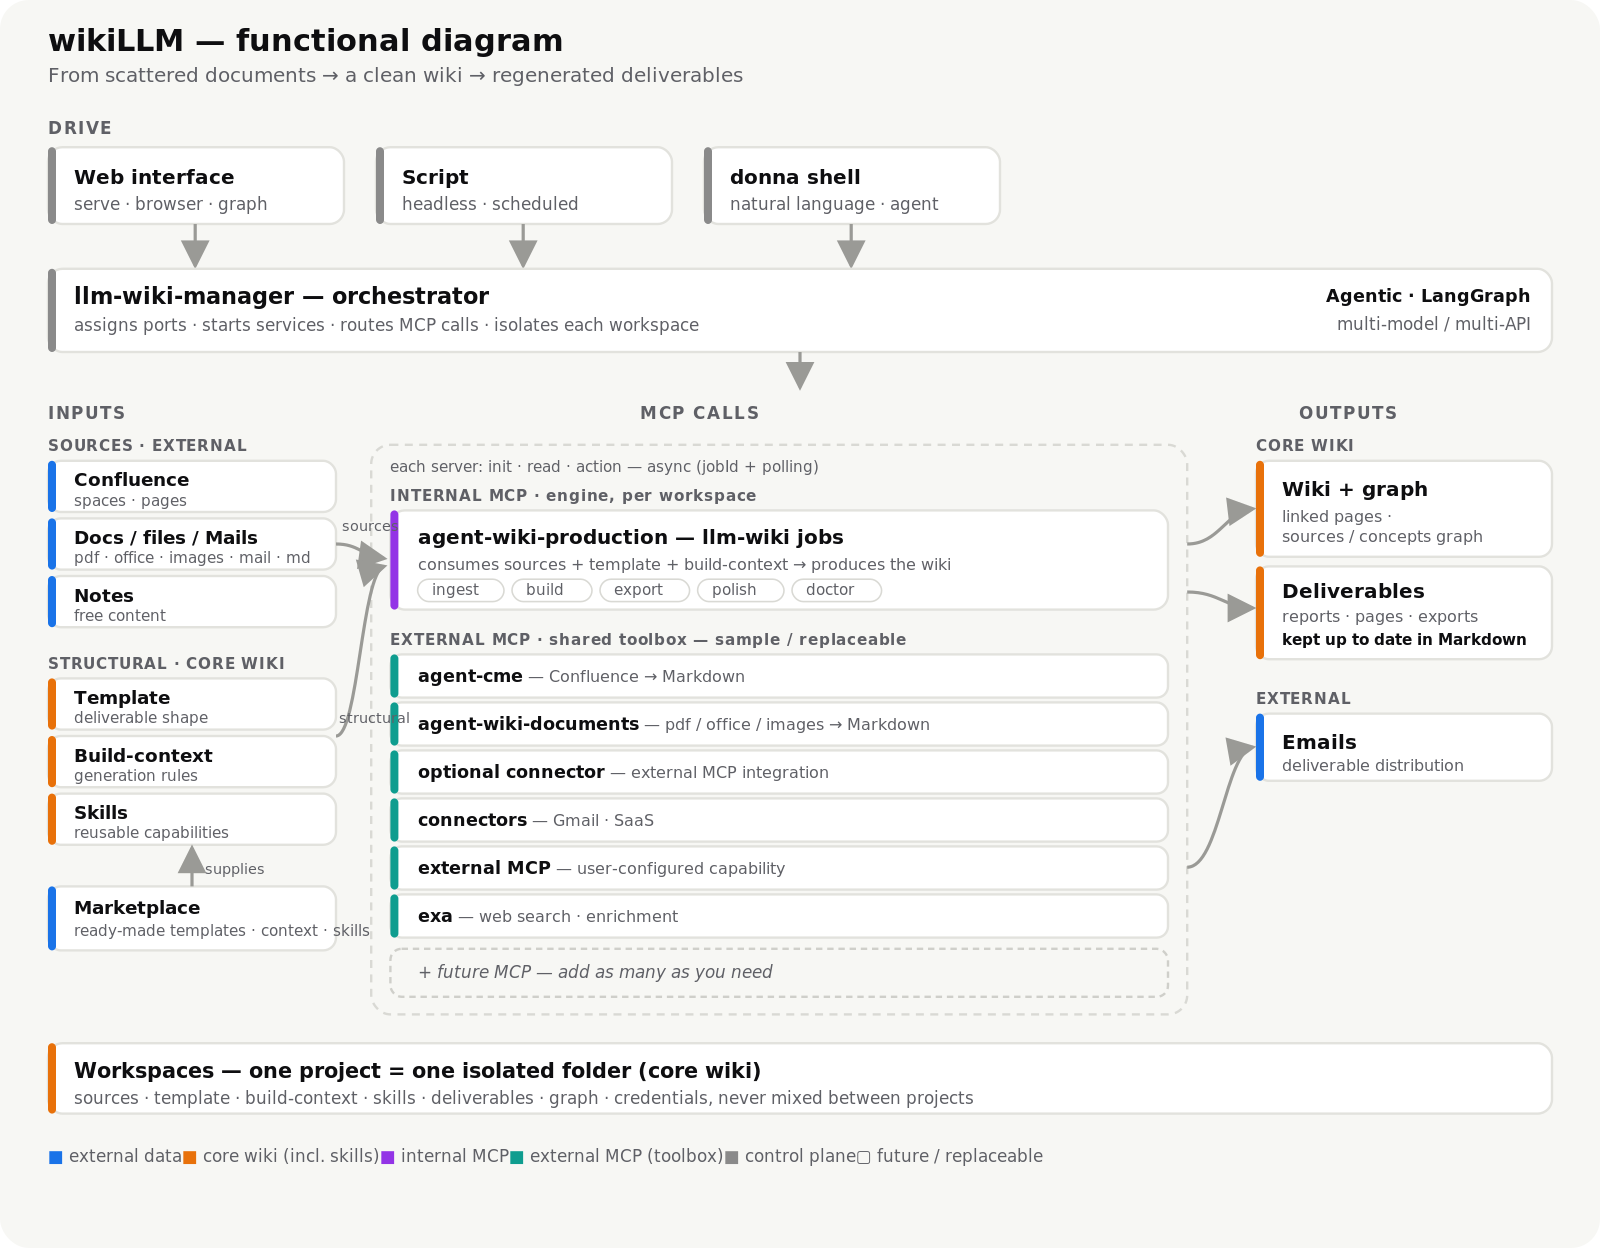
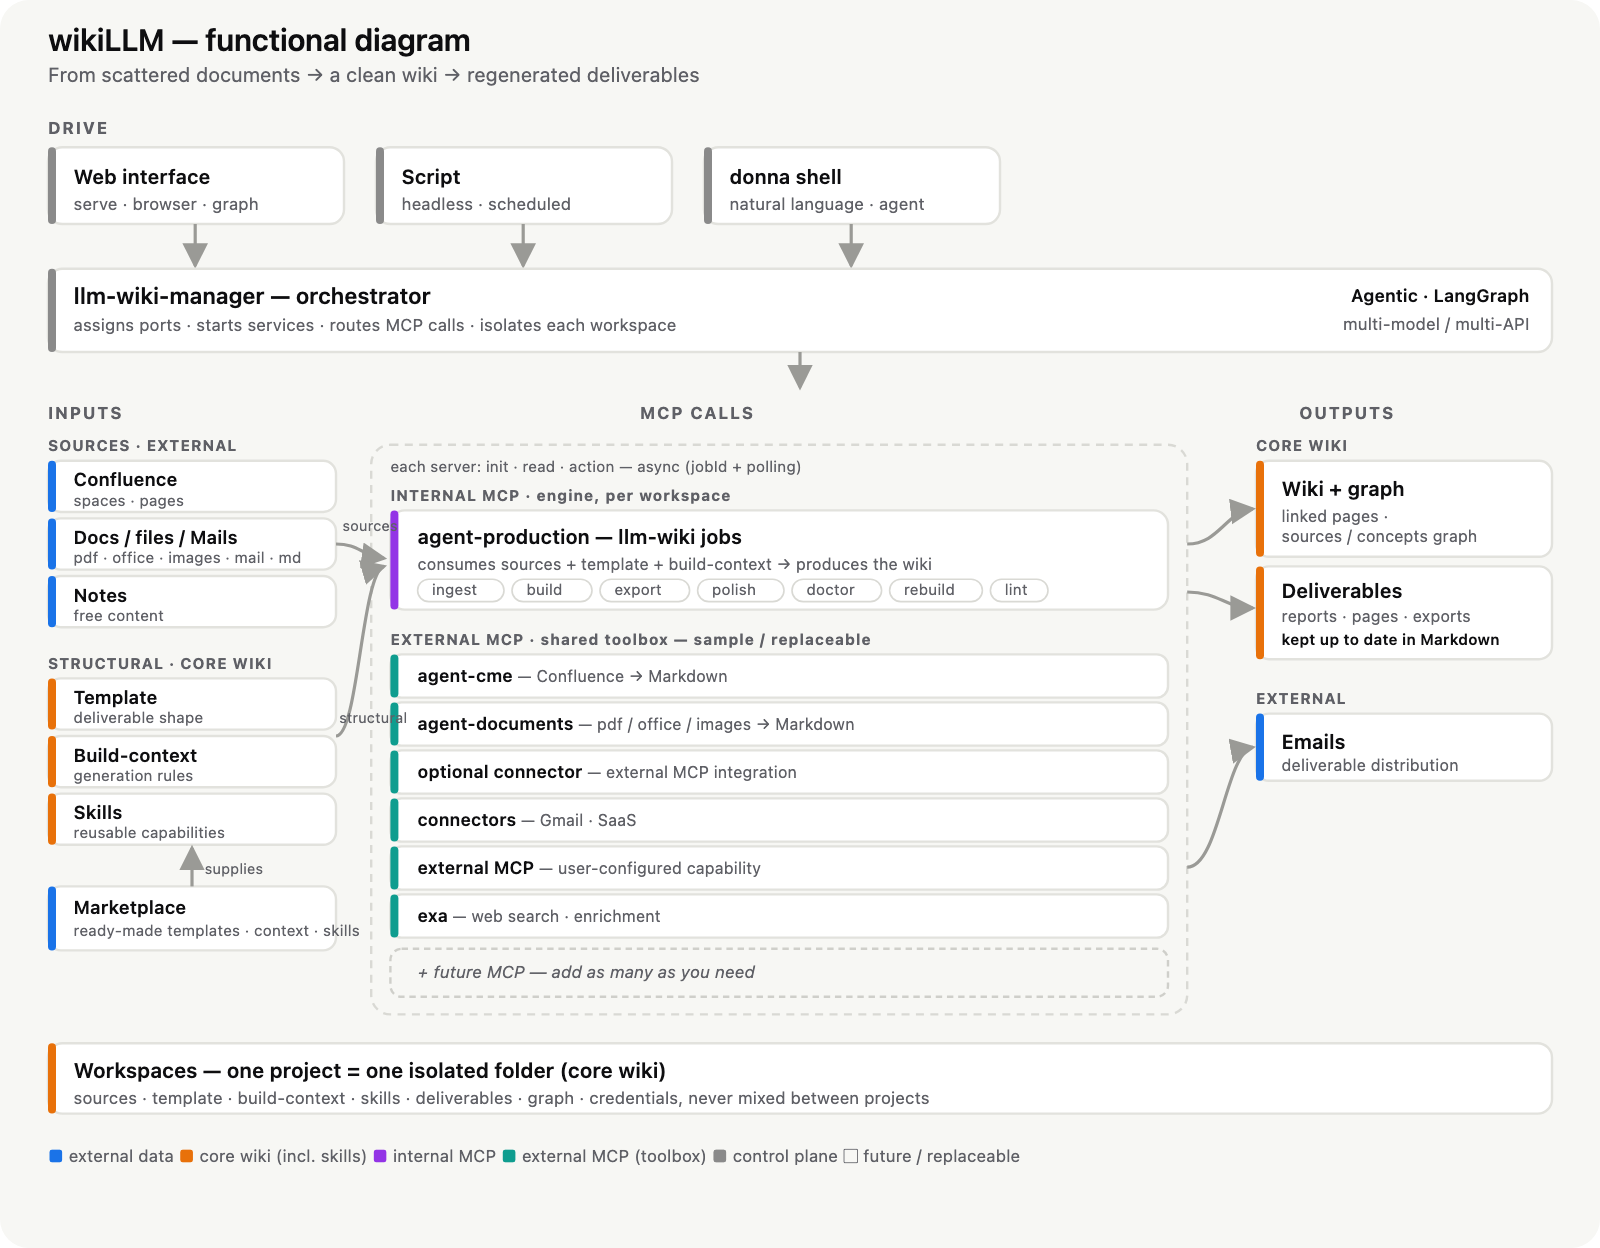
Release 0.15.95
Coordinated release of the wikiLLM services.

diff --git a/src/core/mcp.js b/src/core/mcp.js
@@ -1,7 +1,7 @@
 import { existsSync, readFileSync } from 'node:fs';
 import { managerEnvFile, managerMcpEndpointsFile, readEnvFile } from './env.js';
 
-const WIKI_MANAGER_VERSION = '0.15.94';
+const WIKI_MANAGER_VERSION = '0.15.95';
 
 function envValue(key) {
   const filePath = managerEnvFile();

diff --git a/README.md b/README.md
@@ -121,47 +121,60 @@ in isolated workspaces.
 
 ## How wikiLLM compares
 
-Several open projects now build a Markdown wiki with an LLM. They target
+Several open projects now build an LLM-maintained knowledge layer over your
+sources — some as a wiki, some as a retrieval and answer platform. They target
 **different problems** — the useful questions are *what goes in, what comes out,
-and who operates it*. Snapshot as of 2026; all of these move quickly.
+and who operates it*. Snapshot as of **September 2026**; all of these move quickly.
 
 ✅ first-class · 🟡 partial or indirect · ❌ not a goal
 
-Projects compared: [OpenWiki](https://github.com/langchain-ai/openwiki),
-[DeepWiki-Open](https://github.com/asyncfuncai/deepwiki-open),
+Projects compared: [OpenWiki](https://github.com/langchain-ai/openwiki) and
+[DeepWiki-Open](https://github.com/asyncfuncai/deepwiki-open) (code / knowledge
+wikis), [RAGFlow](https://github.com/infiniflow/ragflow) and
+[Onyx](https://github.com/onyx-dot-app/onyx) (RAG platforms), and
 [GraphRAG](https://github.com/microsoft/graphrag).
 
 <table>
 <thead>
-<tr><th><small>Need</small></th><th><small><strong>wikiLLM</strong></small></th><th><small><strong>OpenWiki</strong></small></th><th><small><strong>DeepWiki-Open</strong></small></th><th><small><strong>GraphRAG</strong></small></th></tr>
+<tr>
+<th><small>Need</small></th>
+<th><small><strong>wikiLLM</strong></small></th>
+<th><small><strong>Code / knowledge wikis</strong><br>OpenWiki · DeepWiki-Open</small></th>
+<th><small><strong>RAG platforms</strong><br>RAGFlow · Onyx</small></th>
+<th><small><strong>Graph pipeline</strong><br>GraphRAG</small></th>
+</tr>
 </thead>
 <tbody>
-<tr><td><small>Input</small></td><td><small>✅ Business docs — Confluence, PDF, Office, SaaS</small></td><td><small>✅ Codebase (code mode)</small></td><td><small>✅ Code repo → diagrams</small></td><td><small>🟡 Plain-text corpus only</small></td></tr>
-<tr><td><small>Output</small></td><td><small>✅ Maintained wiki <strong>+ deliverables</strong> from your templates</small></td><td><small>🟡 Wiki about the code, for agents</small></td><td><small>🟡 Interactive wiki + diagrams</small></td><td><small>❌ Entity graph + summaries — no wiki</small></td></tr>
-<tr><td><small>Keep current</small></td><td><small>✅ Re-ingest / scheduled</small></td><td><small>✅ <code>--update</code>, CI action</small></td><td><small>🟡 Regenerated per run</small></td><td><small>✅ <code>graphrag update</code> (delta)</small></td></tr>
-<tr><td><small>Evidence &amp; citations</small></td><td><small>🟡 Cites retrieved context</small></td><td><small>✅ Claims tied to versioned source</small></td><td><small>🟡 RAG-cited answers</small></td><td><small>✅ Citations to text units</small></td></tr>
-<tr><td><small>Corpus-wide Q&amp;A</small></td><td><small>🟡 BM25 + vector feeding generation</small></td><td><small>❌</small></td><td><small>🟡 Repo-scoped RAG chat</small></td><td><small>✅ Local/global community search</small></td></tr>
-<tr><td><small>Team UI</small></td><td><small>✅ Web console — wiki, graph, chat, runs (single-user today)</small></td><td><small>🟡 Local viewer + CLI chat</small></td><td><small>✅ Self-hosted web app + RAG</small></td><td><small>❌ Library / CLI</small></td></tr>
-<tr><td><small>Multi-project isolation</small></td><td><small>✅ Workspaces, own services, ports, secrets</small></td><td><small>❌ One wiki per run</small></td><td><small>❌ One wiki per repo</small></td><td><small>❌ One index per corpus</small></td></tr>
-<tr><td><small>Orchestration &amp; governance</small></td><td><small>✅ Approval-gated dispatcher, budgets, idempotent writes, crash recovery</small></td><td><small>❌ One agent loop</small></td><td><small>❌ One generation pipeline</small></td><td><small>❌ Indexing pipeline</small></td></tr>
-<tr><td><small>Connectors as services</small></td><td><small>✅ Independent MCP agents (Confluence, docs, e-mail…)</small></td><td><small>🟡 Built-in connector set</small></td><td><small>❌</small></td><td><small>❌</small></td></tr>
-<tr><td><small>Offline / local models</small></td><td><small>✅ Per-workspace OpenAI-compatible or gateway (Ollama, vLLM, MLX…)</small></td><td><small>✅ 13+ providers</small></td><td><small>✅ Ollama</small></td><td><small>✅ Any OpenAI-compatible</small></td></tr>
-<tr><td><small>License</small></td><td><small>❌ PolyForm <strong>Noncommercial</strong></small></td><td><small>✅ MIT</small></td><td><small>✅ MIT</small></td><td><small>✅ MIT</small></td></tr>
+<tr><td><small>Input</small></td><td><small>✅ Business docs — Confluence, PDF, Office, SaaS</small></td><td><small>✅ Code repo; OpenWiki also personal sources (Notion, Gmail, Slack…)</small></td><td><small>✅ PDF/Office/images, Confluence, S3, 50+ connectors</small></td><td><small>🟡 Plain text</small></td></tr>
+<tr><td><small>Output</small></td><td><small>✅ Maintained wiki <strong>+ deliverables</strong></small></td><td><small>✅ Linked Markdown wiki (+ graph / diagrams)</small></td><td><small>🟡 Grounded RAG answers, not a wiki</small></td><td><small>❌ Entity graph + summaries</small></td></tr>
+<tr><td><small>Agents &amp; actions</small></td><td><small>✅ Capability dispatcher, external agentic runtime, MCP tools</small></td><td><small>✅ Doc-generation agents, MCP connectors</small></td><td><small>✅ Agentic workflow, MCP actions, deep research</small></td><td><small>❌ Indexing pipeline</small></td></tr>
+<tr><td><small>Keep current</small></td><td><small>✅ Re-ingest / scheduled</small></td><td><small>✅ <code>--update</code> / regenerate, CI</small></td><td><small>✅ Scheduled connector sync</small></td><td><small>🟡 Maintenance mode</small></td></tr>
+<tr><td><small>Team UI</small></td><td><small>✅ Web console — wiki, graph, chat, runs</small></td><td><small>🟡 CLI + visualizer; DeepWiki-Open web app</small></td><td><small>✅ Self-hosted web app</small></td><td><small>❌ Library / CLI</small></td></tr>
+<tr><td><small>Multi-project isolation</small></td><td><small>✅ Workspaces, own services, ports, secrets</small></td><td><small>❌ One wiki per repo / directory</small></td><td><small>🟡 Datasets / teams, not isolated services</small></td><td><small>❌ One index per corpus</small></td></tr>
+<tr><td><small>Human approval &amp; governance</small></td><td><small>✅ Approval-gated dispatcher, budgets, crash recovery</small></td><td><small>❌ PR review only</small></td><td><small>🟡 RBAC / SSO (Onyx enterprise)</small></td><td><small>❌</small></td></tr>
+<tr><td><small>License</small></td><td><small>❌ PolyForm <strong>Noncommercial</strong></small></td><td><small>✅ MIT</small></td><td><small>✅ Apache-2.0 / MIT CE</small></td><td><small>✅ MIT</small></td></tr>
 </tbody>
 </table>
 
+<small>Per-project details: OpenWiki emits OKF v0.2 and maintains a versioned
+evidence graph of “grounded claims”; GraphRAG is a research project now in
+maintenance mode; Onyx’s SSO/RBAC live in its enterprise edition.</small>
+
 **The short version:**
 
-- **OpenWiki** and **DeepWiki-Open** document *source code*. Point wikiLLM at a
-  repository and there is nothing for it to ingest; point either of them at a
-  stack of Confluence pages and a Word document and that is not their job.
-- **GraphRAG** builds *retrieval structure*, not a wiki you read or deliverables
-  you ship — it is a strong back end for corpus-wide Q&A, and complementary
-  rather than competing.
-- **wikiLLM** is the only one of the four whose output is *both* a browsable wiki
-  *and* regenerated business documents, and the only one with the operational
-  layer — isolated projects, bounded approvals, automatic recovery, a web
-  console — that a shared internal tool needs.
+- **OpenWiki** and **DeepWiki-Open** build wikis from a **code repository**
+  (OpenWiki also ingests personal sources — Notion, Gmail, Slack…). Their input
+  is code or personal feeds, not a stack of business documents feeding your
+  deliverable templates.
+- **RAGFlow** and **Onyx** are RAG platforms: they index sources and answer
+  questions from them, with agents and connectors, but the output is an answer,
+  not a wiki you browse or a document you ship.
+- **GraphRAG** builds retrieval structure and is now in maintenance mode — a
+  complementary back end, not a wiki.
+- **wikiLLM** is the only one whose output is *both* a browsable wiki *and*
+  regenerated business documents, and the only one with the operational layer —
+  isolated projects, bounded approvals, automatic recovery, a web console —
+  that a shared internal tool needs.
 
 **What wikiLLM does *not* try to do (today):**
 
@@ -170,8 +183,6 @@ Projects compared: [OpenWiki](https://github.com/langchain-ai/openwiki),
 - Serve a true multi-user instance with per-user identity and an attributed
   audit trail. This is a single-user deployment baseline (see the scope note
   above).
-- Expose a graph-query API over the corpus the way GraphRAG does; retrieval is
-  BM25 plus a vector index feeding generation.
 - Ship or host the multi-provider AI gateway — routing to several providers is
   supported, the gateway itself is infrastructure you bring.
 

diff --git a/CLAUDE.md b/CLAUDE.md
@@ -170,7 +170,9 @@ After the user enters the main ShellUI and the selected workspace has loaded,
 the UI runs the canonical `/status` command automatically. For **Open
 workspace**, run it after starting the selected workspace services so the first
 snapshot reflects their resulting state; do not duplicate status assembly in
-the TUI.
+the TUI. `statusText` (`commands/slash.js`) renders that snapshot as two
+columns: Workspace, wiki stats, Services and MCP on the **left**; Config,
+concurrency tuning and the `Agentic runtime` section on the **right**.
 
 - The visible agent is `donna`.
 - Lines beginning with `/` execute deterministic primitives.
@@ -231,6 +233,16 @@ difference between "retry", "start your agent" and "rephrase" that only the
 runtime can tell. The raw failure (capability + registry) goes to the journal,
 where it turns the next occurrence into its own diagnosis.
 
+An agent that plans **zero tasks** is not one of those failures.
+`prepareDelegation` (`src/cli/wiki-manager.js`) throws the stable
+`EMPTY_PLAN: <agent synthesis>` sentinel when nothing is pending (no source to
+ingest, no template, no deliverable — e.g. no archived source to re-file);
+`graph.js` recognizes it **before** the unresolved-target heuristic and answers
+with a `nothingToDo` payload (`nothingToDoForDonna`, exported and tested)
+carrying the agent's own sentence and an instruction to relay it as an outcome
+— never a failure, a restart or a retry. The generic `delegation_failed` blocker
+stays for genuinely unexpected errors only.
+
 ## Agent Orchestration
 
 `src/agent/graph.js` is a ReAct loop:
@@ -255,6 +267,9 @@ are exhausted. A provider-compatibility error must never be silently converted
 into a business result such as "not an action", "no task", or "unsupported
 operation". Keep this ordering generic and provider-driven; do not add model,
 agent, capability, or business-verb branches to compensate for one endpoint.
+The converse holds for delegation too: a genuine empty plan is a business
+outcome, not a provider error, so the `EMPTY_PLAN` sentinel is relayed through
+`nothingToDoForDonna` instead of being dressed up as a failure.
 
 Tests for a preferred provider feature must also cover its degraded path. In
 particular, any use of forced `tool_choice` needs coverage for an endpoint that
@@ -419,8 +434,13 @@ Key modules in `src/runtime/`:
 - **`server.js`**: `GET /health`, `GET /state`, `GET /events/stream` (SSE),
   `GET /audit` (0.10.3, `listAuditTrail`, filterable by `workspace`/`runId`),
   `POST /run`, `POST /turn`, `POST /cancel`, `POST /kill`, `POST /resume`,
-  `POST /approve`, `POST /conversation/truncate`, `GET`/`POST /control`,
-  `GET /config/profiles`, and `POST /config/use`. `running` flag
+  `POST /approve`, `POST /conversation/truncate`, `POST /conversation/compact`,
+  `GET`/`POST /control`, `GET /config/profiles`, and `POST /config/use`.
+  `POST /conversation/compact` (the served chat's memory gauge) dispatches one
+  `conversation_reset`: the reducer moves `conversationSeedStart` so later turns
+  stop grounding on earlier messages while the displayed thread stays whole, and
+  stores a best-effort rolling summary (`conversationSummary`) in their place —
+  nothing is deleted from the event log or `GET /audit`. `running` flag
   is set before `await readJson` to close the TOCTOU race on concurrent
   `POST /run` requests. `resolveBodyContext(request, url)` centralizes the
   read-body → resolve-workspace → resolve-context sequence shared by the
@@ -925,6 +945,14 @@ wiki-manager runtime [--host 127.0.0.1] [--port 7788] [--state-dir .wiki/runtime
 /approve run <runId>
 /approve item <itemId>
 ```
+
+The `npm test` release gate also pins the shipped compose wiring in
+`src/core/dockerCompose.test.js`, in particular that `production-mcp`'s
+`PRODUCTION_ALLOWED_STEPS` carries `ingest_rebuild` and `lint`. That env value
+**overrides** the agent's own in-code default, and an omission is silent
+(`agent_describe` simply drops the capability), so removing `ingest_rebuild` or
+`lint` makes the serve wiki rebuild button fall back to a plain ingest. Keep it
+in step with `agent-production`'s `production_mcp_server.py`.
 
 Headless `--skill` goes through the **same runtime resolver** as the Shell and
 serve, so a multi-capability skill produces the same chain everywhere. Its value

diff --git a/docs/authoring-skills.md b/docs/authoring-skills.md
@@ -202,11 +202,13 @@ Rules, all enforced:
   capability), or a skill declaring parameters — the declared route calls
   `agent_plan` directly and skips the argument extraction a selector such as
   `<template>` needs, so `/wiki-build rapport` would widen to every template.
-- **Declare only what the executor can actually plan.** `diagnose` once declared
-  `workspace.diagnose`/`doctor`; the production agent's planning allow-list has
-  no `doctor`, so the plan was refused and the skill stopped diagnosing. A
-  refusal is now surfaced instead of being reported as a completed run, but the
-  declaration still has to match what the agent accepts.
+- **Declare only what the executor can actually plan.** A declaration needs a
+  planner behind it: the production agent once advertised
+  `workspace.diagnose`/`doctor` while `agent_plan` returned an empty fragment,
+  so the skill stopped diagnosing. `doctor` is now plannable (one read-only
+  doctor task), so the declaration and the planner agree. A refusal is surfaced
+  instead of being reported as a completed run, and a declaration still has to
+  match what the agent accepts.
 
 ## Execution policy
 

diff --git a/docs/configuration.md b/docs/configuration.md
@@ -79,6 +79,7 @@ workspace `.wikirc.yaml`.
 | `WIKI_MANAGER_RUNTIME_HOST` | yes (shipped active) | interface the host runtime binds. `0.0.0.0` by default: `serve` runs in Docker and reaches the runtime through `host.docker.internal`, which a `127.0.0.1` bind refuses. Exposing the port always generates `WIKI_MANAGER_RUNTIME_TOKEN` |
 | `WIKI_MANAGER_TOTP` | no | set to `off` to disable the TOTP login gate (default: on). The gate is the **human** lock in front of the ShellUI and `serve`; headless/CI never passes through it |
 | `WIKI_MANAGER_SESSION_TTL_HOURS` | no | TOTP session lifetime in hours of inactivity, sliding (default `12`) |
+| `PRODUCTION_ALLOWED_STEPS` | no | comma-separated steps `production-mcp` accepts. This compose default **overrides** the agent's in-code list: it must include `ingest_rebuild` and `lint`, or `knowledge.rebuild`/`knowledge.check` silently disappear from `agent_describe` (the serve rebuild button then falls back to a plain ingest) |
 
 The TOTP secret and the session live in the manager runtime state directory
 (`totp.json`, `session.json`, both 0600) — the runtime is the single login
